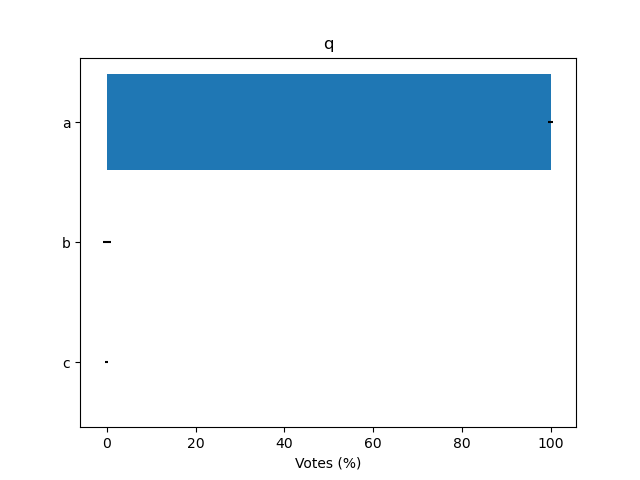
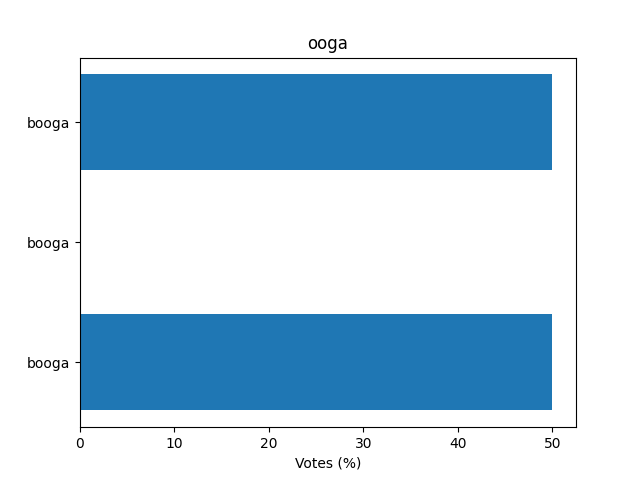
Fixed chart and added time error

diff --git a/cogs/poll.py b/cogs/poll.py
@@ -32,6 +32,7 @@ class Poll(commands.Cog):
     # Initialises the figure
     fig, ax = plt.subplots()
     y_pos = np.arange(len(options))
+    ax.barh(y_pos, percentages, align='center')
     ax.set_yticks(y_pos, labels=options)
     ax.invert_yaxis()  # labels read top-to-bottom
     ax.set_xlabel('Votes (%)')
@@ -41,8 +42,13 @@ class Poll(commands.Cog):
 
   @commands.command(aliases=["p"])
   async def init_poll(self, ctx, question, time, *options):
+    # Prevents user from inputting more than 3 options
     if len(options) > 3:
       await ctx.send("The number of options cannot exceed the allowed limit")
+      return
+    if not time.isdigit():
+      await ctx.send("Time has to be a digit")
+      return
 
     embed = discord.Embed(title = question,
                           description= f'Poll will end in {time} seconds :alarm_clock:. There are {len(options)} options:')
@@ -54,12 +60,15 @@ class Poll(commands.Cog):
     embed.add_field(name="Instructions", value="React to cast a vote", inline=False)
     embed.set_footer(text = f'This poll is created by {ctx.author.name}')
     poll = await ctx.send(embed = embed)
+
     # add emojis as reactions to the poll
     for emo in emojis:
       await poll.add_reaction(emo)
     await asyncio.sleep(int(time))
+
     #calculate the result of the poll
     message = await ctx.fetch_message(poll.id)
+
     # create a bar chart as a result
     await self.create_bar_chart(options, message.reactions, question)
     result = discord.Embed(title='Result', description = "Here are the vote results")
